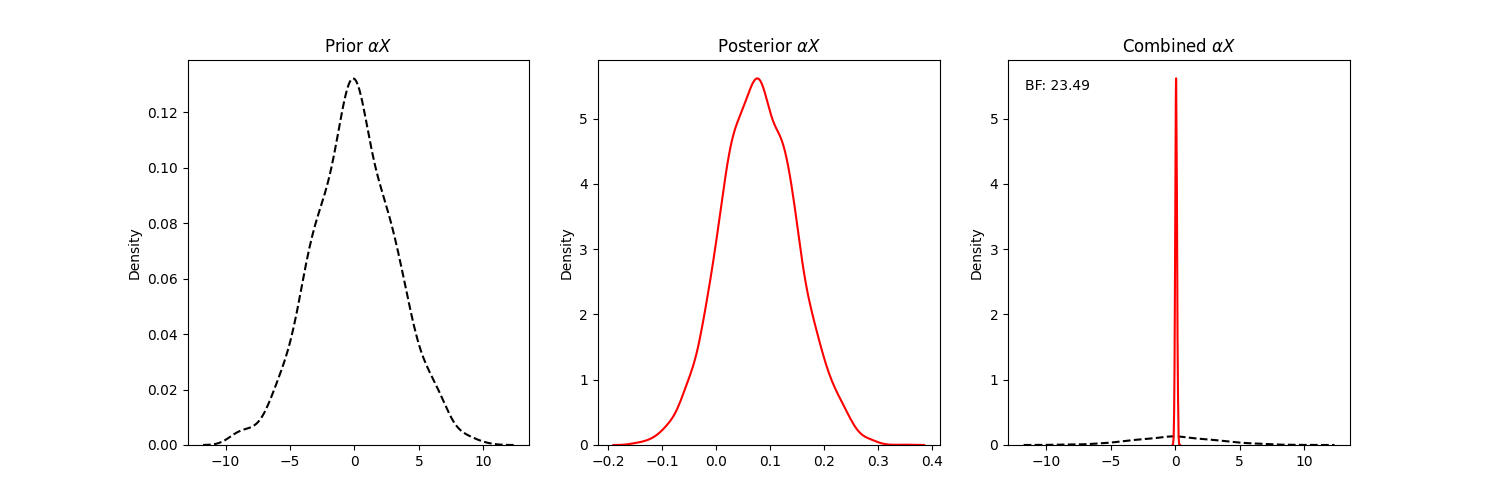
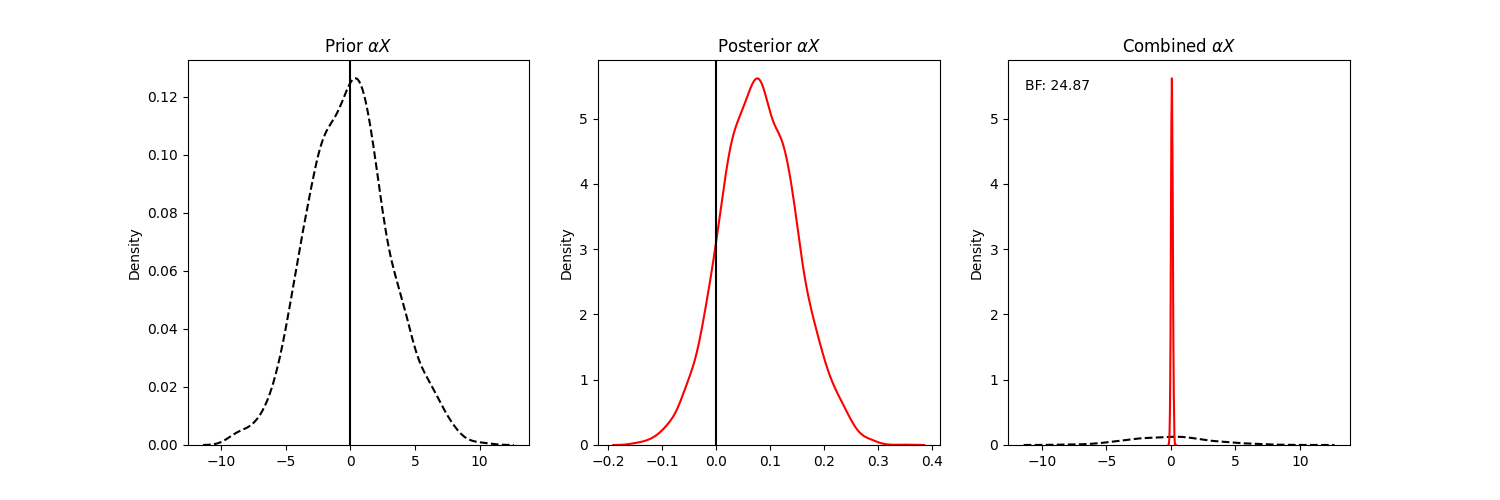
added vert lines at x=0

diff --git a/src/comparison/plot_comparison.py b/src/comparison/plot_comparison.py
@@ -102,10 +102,12 @@ def savage_dickey_plot_outcome(data, parameters=[("alpha", "$\\alpha X$")], save
         # prior
         sns.kdeplot(prior_samples, ax=axs[0], color="black", linestyle="--")
         axs[0].set_title(f"Prior {name}")
+        axs[0].axvline(x=0, color="black", linestyle="-")
 
         # posterior
         sns.kdeplot(posterior_samples, ax=axs[1], color="red", linestyle="-")
         axs[1].set_title(f"Posterior {name}")
+        axs[1].axvline(x=0, color="black", linestyle="-")
 
         # combined
         sns.kdeplot(prior_samples, ax=axs[2], color="black", linestyle="--", label="Prior")
